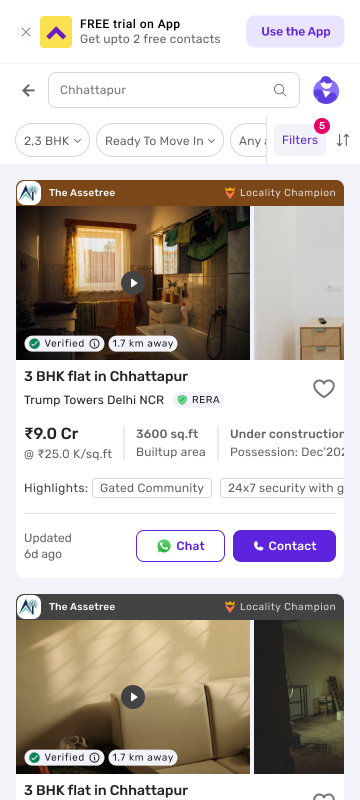
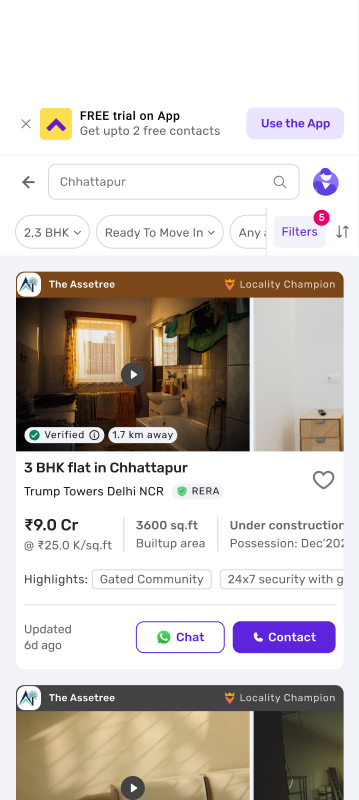
Remove top gap, swap SRP background for Figma Frame 1 export
Drop the black spacer strip entirely and go back to a plain full-
viewport frame. Replace assets/srp.png with a direct export of
Frame 1 (node 7921:30491) from the CRF--Demand Figma file, the
canonical pre-nudge SRP state, instead of the earlier ad-hoc capture.

diff --git a/index.html b/index.html
@@ -13,7 +13,6 @@
     --sheet-ease: cubic-bezier(0.32, 0.72, 0, 1);
     --overlay-duration: 260ms;
     --brand: #4A16D9;
-    --top-gap: 40px;
   }
 
   * { box-sizing: border-box; }
@@ -29,18 +28,10 @@
     overflow: hidden;
   }
 
-  /* empty space at the top so the page doesn't load flush under the browser's search bar */
-  body {
-    padding-top: var(--top-gap);
-    display: flex;
-    flex-direction: column;
-  }
-
-  /* fills the rest of the viewport below the top gap, no fixed size or bounding chrome */
+  /* fills the actual device viewport exactly, no fixed size or bounding chrome */
   .phone-frame {
     width: 100vw;
-    flex: 1;
-    min-height: 0;
+    height: 100%;
     overflow: hidden;
     position: relative;
   }